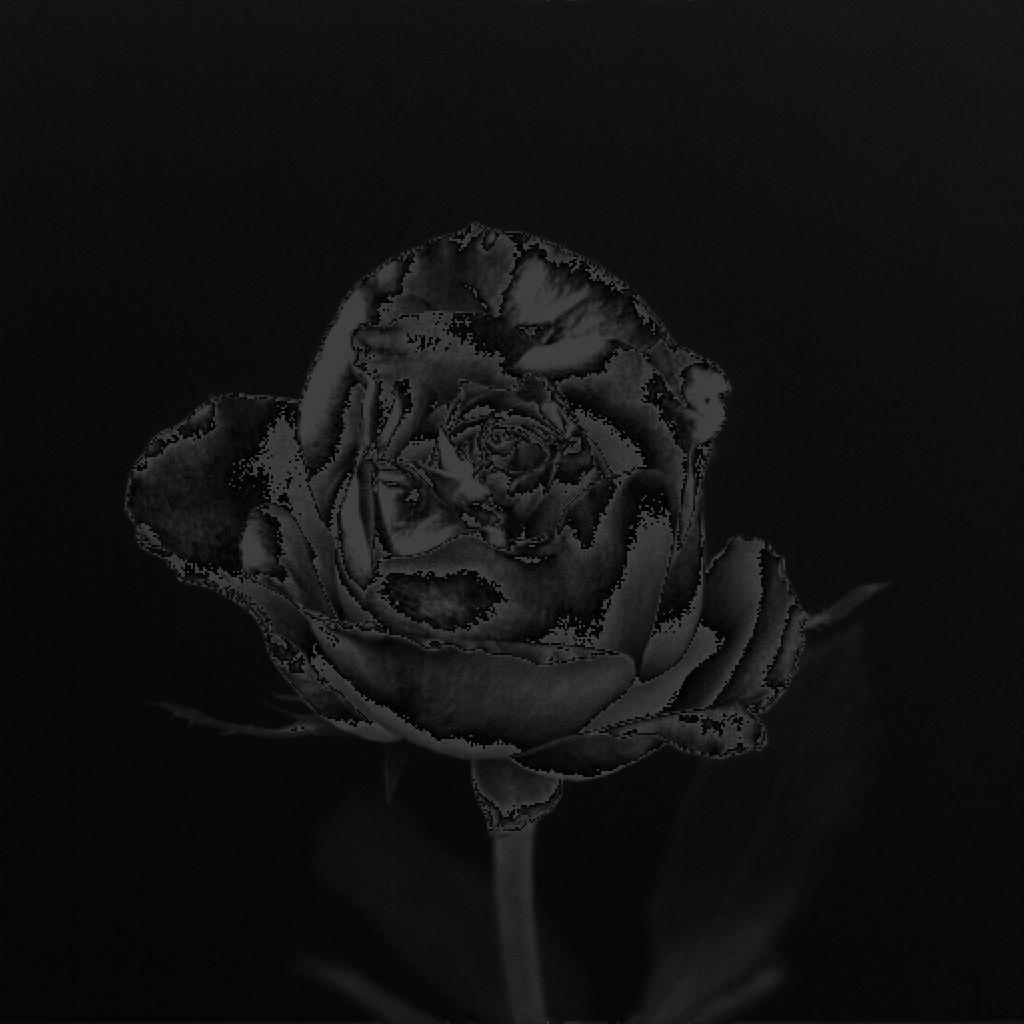
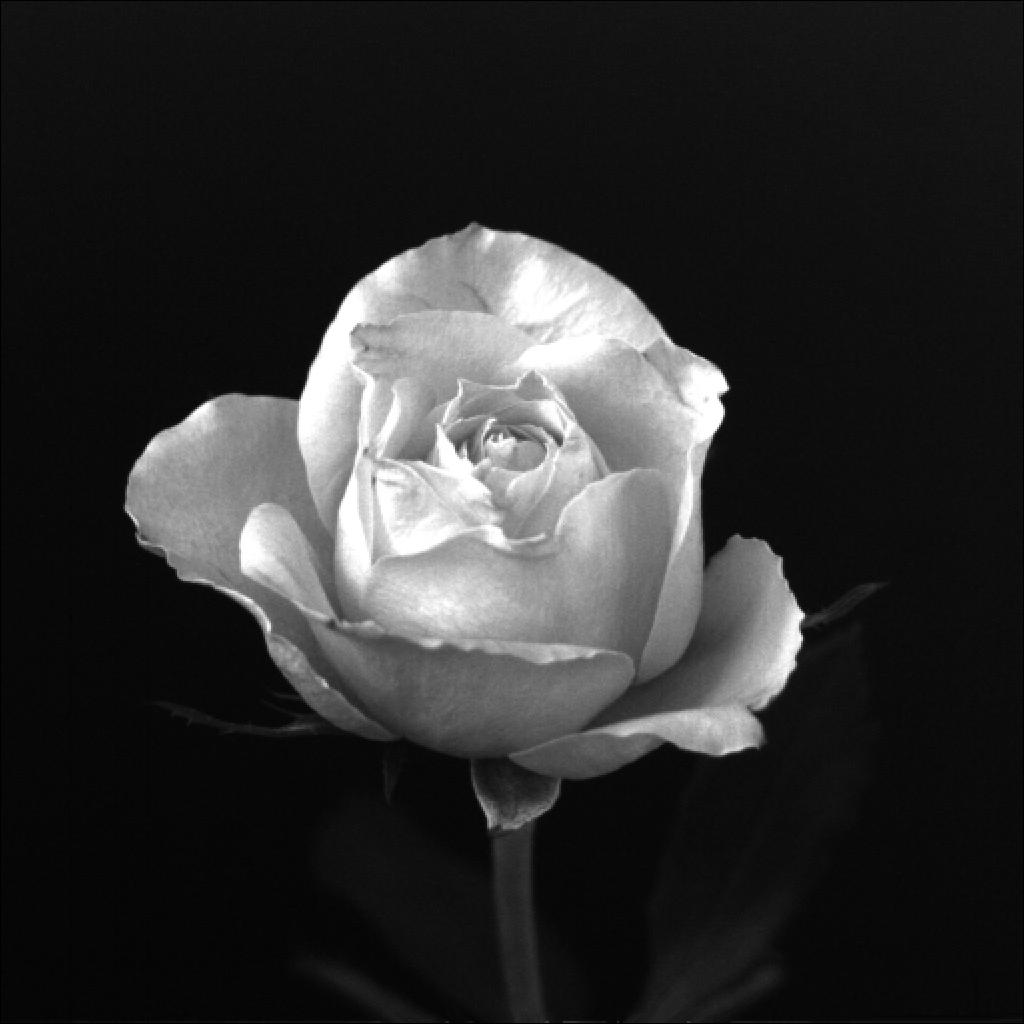
being funny

Changed region(s): [[0.125, 0.2188, 0.8125, 0.8125]]

diff --git a/Assignment 1/Assignment1.py b/Assignment 1/Assignment1.py
@@ -12,20 +12,51 @@ img = pillow.open('Assignment 1/rose.jpg')
 # the effect.
 
 # Down-sample the image
+# if len(image_array.shape) == 3:
+#         # RGB image
+#         downsampled = np.zeros((newSideSize, newSideSize, image_array.shape[2]), dtype=np.uint8)
+#     else:
+#         # Grayscale image
+#         downsampled = np.zeros((newSideSize, newSideSize), dtype=np.uint8)
+    
+#     scale = image_array.shape[0] // newSideSize
+    
+#     for i in range(newSideSize):
+#         for j in range(newSideSize):
+#             block = image_array[i*scale:(i+1)*scale, j*scale:(j+1)*scale]
+#             downsampled[i, j] = np.mean(block)
 def downSample(img):
     downSampledImages = []
+    image = np.array(img)
     for i in range(3):
-        image = np.array(img)
         sideSize = image.shape[0]
         newSideSize = sideSize // 2
+        # if len(image.shape) == 3:
+        #     # RGB image
+        #     newImageArray = np.zeros((newSideSize, newSideSize, image.shape[2]), dtype=np.uint8)
+        # else:
+        #     # Grayscale image
+        #     newImageArray = np.zeros((newSideSize, newSideSize), dtype=np.uint8)
+        
+        # scale = image.shape[0] // newSideSize
+        
+        # for i in range(newSideSize):
+        #     for j in range(newSideSize):
+        #         block = image[i*scale:(i+1)*scale, j*scale:(j+1)*scale]
+        #         newImageArray[i, j] = np.mean(block)
+        #         if i == 24 and j == 24:
+        #             print(block)
 
         newImageArray = np.zeros((newSideSize, newSideSize), dtype=np.uint8)
         for y in range(newSideSize):
             for x in range(newSideSize):
-                newVal = (image[y*2-1,x*2-1]+image[y * 2, x * 2]+image[y*2-1,x*2]+image[y*2,x*2-1]) // 4
-                newImageArray[y, x] = newVal
+                newVal = ((image[y*2,x*2]*.1+image[y * 2, x * 2+1]*.1)/2 +(image[y*2+1,x*2]*.1+image[y*2+1,x*2+1]*.1)/2)/2
+                if y == 25 and x == 25:
+                    print(newVal)
+                newImageArray[y, x] = newVal/.1
+        # newImageArray = image[::2, ::2]
         downSampledImages.append(pillow.fromarray(newImageArray))
-        img = newImageArray
+        image = newImageArray
 
 
     return downSampledImages
@@ -40,13 +71,18 @@ def upSampleTo1024(img):
         ogSize = image.shape[0]
 
         newImageArray = np.zeros((1024, 1024), dtype=np.uint8)
+        # scale = 1024 // ogSize
+        # for y in range(1024):
+        #     for x in range(1024):
+        #         newImageArray[y, x] = image[y // scale, x // scale]
         if ogSize == 512:
             for y in range(ogSize):
                 for x in range(ogSize):
-                    newImageArray[y*2-1,x*2-1] = image[y, x]
-                    newImageArray[y * 2, x * 2] = image[y, x]
-                    newImageArray[y*2-1,x*2] = image[y, x]
-                    newImageArray[y*2,x*2-1] = image[y, x]
+                    # newImageArray[y*2-1,x*2-1] = image[y, x]
+                    # newImageArray[y * 2, x * 2] = image[y, x]
+                    # newImageArray[y*2-1,x*2] = image[y, x]
+                    # newImageArray[y*2,x*2-1] = image[y, x]
+                    newImageArray[y*2-1: y*2+1, x*2-1: x*2+1] = image[y, x]
             upSampledImages.append(pillow.fromarray(newImageArray))
         elif ogSize == 256:
             for y in range(ogSize):

diff --git a/Assignment 1/think.py b/Assignment 1/think.py
@@ -1,0 +1,58 @@
+from PIL import Image
+import numpy as np
+
+def downsample(image_array, new_size):
+    if len(image_array.shape) == 3:
+        # RGB image
+        downsampled = np.zeros((new_size, new_size, image_array.shape[2]), dtype=np.uint8)
+    else:
+        # Grayscale image
+        downsampled = np.zeros((new_size, new_size), dtype=np.uint8)
+    
+    scale = image_array.shape[0] // new_size
+    
+    for i in range(new_size):
+        for j in range(new_size):
+            block = image_array[i*scale:(i+1)*scale, j*scale:(j+1)*scale]
+            downsampled[i, j] = np.mean(block)
+    
+    return downsampled
+
+def upsample(image_array, original_size):
+    if len(image_array.shape) == 3:
+        # RGB image
+        upsampled = np.zeros((original_size, original_size, image_array.shape[2]), dtype=np.uint8)
+    else:
+        # Grayscale image
+        upsampled = np.zeros((original_size, original_size), dtype=np.uint8)
+    
+    scale = original_size // image_array.shape[0]
+    print(scale)
+    for i in range(original_size):
+        for j in range(original_size):
+            upsampled[i, j] = image_array[i // scale, j // scale]
+    
+    return upsampled
+
+# Load the original image
+image_path = "Assignment 1/rose.jpg"
+original_image = Image.open(image_path)
+original_array = np.array(original_image)
+
+# Down-sample to 512x512, 256x256, and 128x128
+downsampled_512 = downsample(original_array, 512)
+downsampled_256 = downsample(original_array, 256)
+downsampled_128 = downsample(original_array, 128)
+
+# Up-sample back to 1024x1024
+upsampled_512 = upsample(downsampled_512, 1024)
+upsampled_256 = upsample(downsampled_256, 1024)
+upsampled_128 = upsample(downsampled_128, 1024)
+
+# Convert numpy arrays back to images and save
+Image.fromarray(downsampled_512).save("downsampled_512.jpg")
+Image.fromarray(downsampled_256).save("downsampled_256.jpg")
+Image.fromarray(downsampled_128).save("downsampled_128.jpg")
+Image.fromarray(upsampled_512).save("upsampled_512.jpg")
+Image.fromarray(upsampled_256).save("upsampled_256.jpg")
+Image.fromarray(upsampled_128).save("upsampled_128.jpg")
